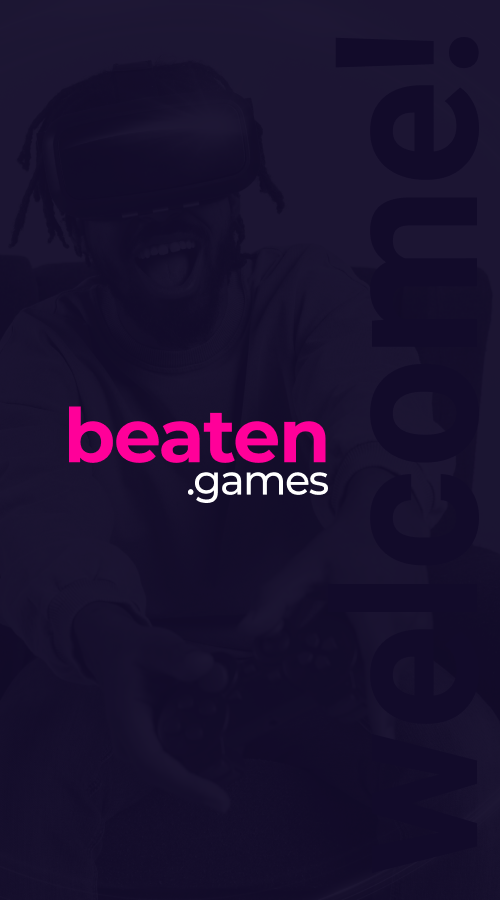
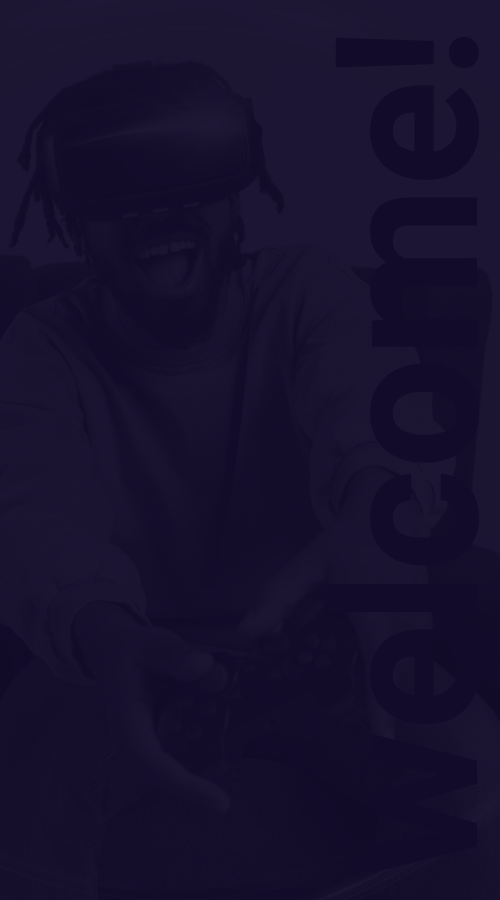
feat(header): new project

Changed region(s): [[0.12, 0.4356, 0.66, 0.56]]

diff --git a/src/layouts/main/MainNavbar.js b/src/layouts/main/MainNavbar.js
@@ -2,11 +2,13 @@ import { Link as RouterLink, useLocation } from 'react-router-dom';
 // material
 import { styled } from '@mui/material/styles';
 import { Box, Button, AppBar, Toolbar, Container } from '@mui/material';
+// Image
+import { ReactComponent as Beaten } from '../../assets/logo-beaten.svg';
 // hooks
 import useOffSetTop from '../../hooks/useOffSetTop';
+// routes
+import { PATH_AUTH } from '../../routes/paths';
 // components
-import Logo from '../../components/Logo';
-import Label from '../../components/Label';
 import { MHidden } from '../../components/@material-extend';
 //
 import MenuDesktop from './MenuDesktop';
@@ -16,7 +18,7 @@ import navConfig from './MenuConfig';
 // ----------------------------------------------------------------------
 
 const APP_BAR_MOBILE = 64;
-const APP_BAR_DESKTOP = 88;
+const APP_BAR_DESKTOP = 80;
 
 const ToolbarStyle = styled(Toolbar)(({ theme }) => ({
   height: APP_BAR_MOBILE,
@@ -39,7 +41,12 @@ const ToolbarShadowStyle = styled('div')(({ theme }) => ({
   borderRadius: '50%',
   position: 'absolute',
   width: `calc(100% - 48px)`,
-  boxShadow: theme.customShadows.z8
+  boxShadow: theme.customShadows.none
+}));
+
+const BoxStyle = styled(Box)(({ theme }) => ({
+  boxShadow: theme.customShadows.none,
+  marginRight: 80
 }));
 
 // ----------------------------------------------------------------------
@@ -50,7 +57,7 @@ export default function MainNavbar() {
   const isHome = pathname === '/';
 
   return (
-    <AppBar sx={{ boxShadow: 0, bgcolor: 'transparent' }}>
+    <AppBar sx={{ boxShadow: 0, bgcolor: '#0B071B' }}>
       <ToolbarStyle
         disableGutters
         sx={{
@@ -68,21 +75,32 @@ export default function MainNavbar() {
             justifyContent: 'space-between'
           }}
         >
-          <RouterLink to="/">
-            <Logo />
-          </RouterLink>
-          <Label color="info" sx={{ ml: 1 }}>
-            v2.6.0
-          </Label>
-          <Box sx={{ flexGrow: 1 }} />
+          <BoxStyle>
+            <RouterLink to="/">
+              <Beaten />
+            </RouterLink>
+          </BoxStyle>
 
           <MHidden width="mdDown">
             <MenuDesktop isOffset={isOffset} isHome={isHome} navConfig={navConfig} />
           </MHidden>
+          <Box sx={{ flexGrow: 1 }} />
 
-          <Button variant="contained" target="_blank" href="https://material-ui.com/store/items/minimal-dashboard/">
-            Purchase Now
-          </Button>
+          <Box>
+            <Button
+              sx={{ borderRadius: 50 }}
+              variant="outlined"
+              color="secondary"
+              to={PATH_AUTH.login}
+              component={RouterLink}
+            >
+              Login
+            </Button>
+
+            <Button sx={{ ml: 2, borderRadius: 50 }} variant="contained" to={PATH_AUTH.register} component={RouterLink}>
+              Sign up
+            </Button>
+          </Box>
 
           <MHidden width="mdUp">
             <MenuMobile isOffset={isOffset} isHome={isHome} navConfig={navConfig} />

diff --git a/src/theme/palette.js b/src/theme/palette.js
@@ -31,7 +31,7 @@ const GREY = {
 const PRIMARY = {
   lighter: '#C8FACD',
   light: '#5BE584',
-  main: '#00AB55',
+  main: '#FF0099',
   dark: '#007B55',
   darker: '#005249',
   contrastText: '#fff'
@@ -39,7 +39,7 @@ const PRIMARY = {
 const SECONDARY = {
   lighter: '#D6E4FF',
   light: '#84A9FF',
-  main: '#3366FF',
+  main: '#FF0099',
   dark: '#1939B7',
   darker: '#091A7A',
   contrastText: '#fff'
@@ -107,7 +107,7 @@ const COMMON = {
   divider: GREY[500_24],
   action: {
     hover: GREY[500_8],
-    selected: GREY[500_16],
+    selected: GREY[800],
     disabled: GREY[500_80],
     disabledBackground: GREY[500_24],
     focus: GREY[500_24],

diff --git a/src/layouts/main/MenuConfig.js b/src/layouts/main/MenuConfig.js
@@ -20,7 +20,7 @@ const menuConfig = [
     path: '/'
   },
   {
-    title: 'Components',
+    title: 'Explore',
     icon: <Icon icon={roundGrain} {...ICON_SIZE} />,
     path: PATH_PAGE.components
   },
@@ -62,11 +62,6 @@ const menuConfig = [
         items: [{ title: 'Dashboard', path: PATH_DASHBOARD.root }]
       }
     ]
-  },
-  {
-    title: 'Documentation',
-    icon: <Icon icon={bookOpenFill} {...ICON_SIZE} />,
-    path: PATH_DOCS
   }
 ];
 

diff --git a/src/pages/LandingPage.js b/src/pages/LandingPage.js
@@ -29,7 +29,7 @@ const ContentStyle = styled('div')(({ theme }) => ({
 
 export default function LandingPage() {
   return (
-    <RootStyle title="The starting point for your next project | Minimal-UI" id="move_top">
+    <RootStyle title="Beaten Games" id="move_top">
       <LandingHero />
       <ContentStyle>
         <LandingMinimal />
